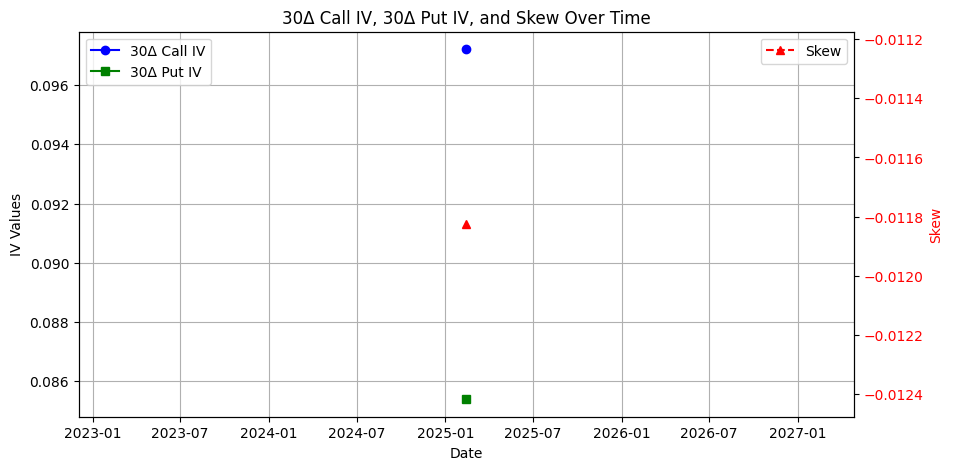
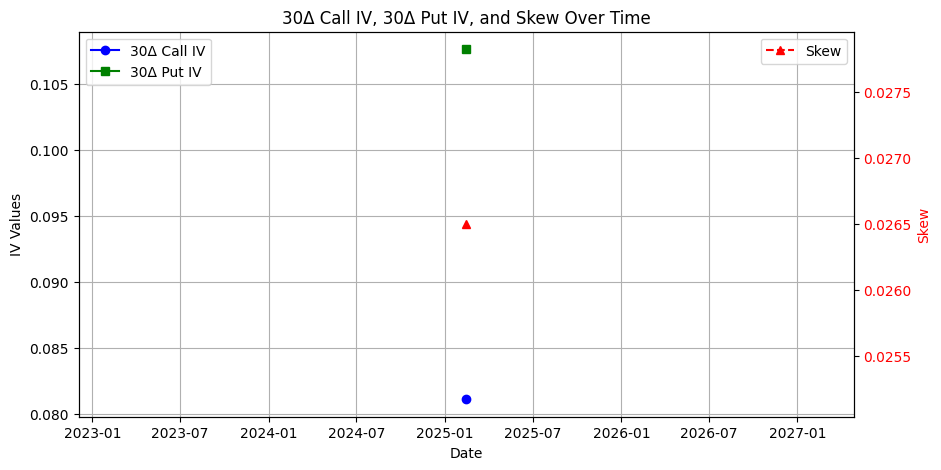
ready

diff --git a/daily_skew_report.py b/daily_skew_report.py
@@ -46,26 +46,38 @@ def calculate_call_delta(S, K, T, r, sigma):
     delta = stats.norm.cdf(d1)
     return delta
 
+def calculate_put_delta(S, K, T, r, sigma):
+    # Calculate d1
+    d1 = (math.log(S / K) + (r + 0.5 * sigma**2) * T) / (sigma * math.sqrt(T))
+    
+    # Put delta is call delta minus 1
+    delta = stats.norm.cdf(d1) - 1
+    return delta
+
 # Function to calculate SPX skew
 def calculate_spx_skew(calls, puts, spot, T):
     spotr = round(spot, 0)
     calls = calls[(calls['strike'] <= spotr+100)&(calls['strike']>= spotr-100)]
     puts = puts[(puts['strike'] <= spotr+100)&(puts['strike']>= spotr-100)]
     calls['delta'] = calls.apply(lambda row: calculate_call_delta(spot, row['strike'], T, 0, row['impliedVolatility']), axis=1)
-    puts['delta'] = puts.apply(lambda row: calculate_call_delta(spot, row['strike'], T, 0, row['impliedVolatility']), axis=1)
+    puts['delta'] = puts.apply(lambda row: calculate_put_delta(spot, row['strike'], T, 0, row['impliedVolatility']), axis=1)
 
+    
     calls = calls[(calls['delta']>=0.25)&(calls['delta']<=0.3)].head(1).reset_index()
-    puts = puts[(puts['delta']>=0.25)&(puts['delta']<=0.3)].head(1).reset_index()
-
+    puts = puts[(puts['delta']<=-0.25)&(puts['delta']>=-0.3)].tail(1).reset_index()
     call_30d_iv = calls.loc[0, "impliedVolatility"]
+    call_delta = calls.loc[0, "delta"]
+    call_strike = calls.loc[0, 'strike']
     put_30d_iv = puts.loc[0, "impliedVolatility"]
+    put_delta = puts.loc[0, "delta"]
+    put_strike = puts.loc[0, 'strike']
     skew = put_30d_iv-call_30d_iv
 
-    return call_30d_iv, put_30d_iv, skew
+    return call_30d_iv, put_30d_iv, skew, call_delta, call_strike, put_delta, put_strike
 
 def plot():
     plot_skew = pd.read_csv("spx_skew.csv")
-    plot_skew.columns = ['Date', '30Δ Call IV', '30Δ Put IV', 'Skew']
+    plot_skew.columns = ['Date', '30Δ Call IV', 'Call Delta', "Call Strike", '30Δ Put IV', "Put Delta", 'Put Strike', 'Skew']
     df = plot_skew
     df["Date"] = pd.to_datetime(df["Date"])
 
@@ -96,7 +108,13 @@ def plot():
     # Save plot
     plt.savefig("plots/iv_skew_plot.png", bbox_inches="tight")
     plt.close()
-    return plot_skew
+
+    plot_skew = plot_skew.sort_values("Date", ascending=False)
+    plot_skew['Change'] = plot_skew["Skew"]-plot_skew['Skew'].shift(-1)
+    plot_skew["Signal"] = plot_skew["Change"].apply(lambda x: "Bearish" if x > 0 else "Bullish")
+    today_signal = plot_skew.loc[len(plot_skew)-1, "Signal"]
+
+    return plot_skew, today_signal
 
 
 # Function to track daily SPX skew
@@ -117,26 +135,25 @@ def track_daily_spx_skew():
     time_to_exp = time_to_exp_sec / (252*24*60*60)
 
     # Calculate SPX skew
-    call_30d_iv, put_30d_iv, skew = calculate_spx_skew(calls, puts, spot, time_to_exp)
+    call_30d_iv, put_30d_iv, skew, call_delta, call_strike, put_delta, put_strike = calculate_spx_skew(calls, puts, spot, time_to_exp)
     
     # Store the result in a DataFrame
-    skew_df = pd.DataFrame({'Date': [today], '30Δ Call IV':[call_30d_iv], '30Δ Put IV':[put_30d_iv], 'SPX_Skew': [skew]})
-  
+    skew_df = pd.DataFrame({'Date': [today], 'Call IV':[call_30d_iv],'Call Delta':[call_delta], 'Call Strike':[call_strike],'Put IV':[put_30d_iv],'Put Delta':[put_delta],'Put Strike':[put_strike], 'SPX Skew': [skew]})
+
     # Save to CSV (append mode)
     try:
         skew_df.to_csv('spx_skew.csv', mode='a', header=False, index=False)
     except FileNotFoundError:
         skew_df.to_csv('spx_skew.csv', mode='w', header=True, index=False)
 
-    df = plot()
+    df, signal = plot()
     
 
-    print(f"SPX Skew on {today}: {skew}")
-    return df
+    return df.head(5), signal
 
 # Run the script daily
 if __name__ == "__main__":
-    df = track_daily_spx_skew()
+    df, signal = track_daily_spx_skew()
     plot_path = "plots/iv_skew_plot.png"  # Ensure this path is correct
 
     # Email configuration
@@ -145,7 +162,7 @@ if __name__ == "__main__":
     SENDER_EMAIL = "casselrobson93@gmail.com"
     SENDER_PASSWORD = "lajhhtqevwvomcts"  # Use an app password if using Gmail
     RECIPIENT_EMAIL = "casselrobson19@gmail.com"
-    SUBJECT = f"Daily Report - {datetime.today().strftime('%Y-%m-%d')}"
+    SUBJECT = f"Daily Skew Sentiment {signal} - {datetime.today().strftime('%Y-%m-%d')}"
 
     # Convert DataFrame to HTML table
     df_html = df.to_html(index=False, border=1, justify="center")
@@ -167,9 +184,9 @@ if __name__ == "__main__":
         </style>
     </head>
     <body>
-        <h2>Daily Data Report</h2>
+        <h2>Daily Skew Report (5D)</h2>
         {df_html}
-        <p>Attached is the latest plot.</p>
+        <p>Plot of Raw and Rolling Skew.</p>
     </body>
     </html>
     """
